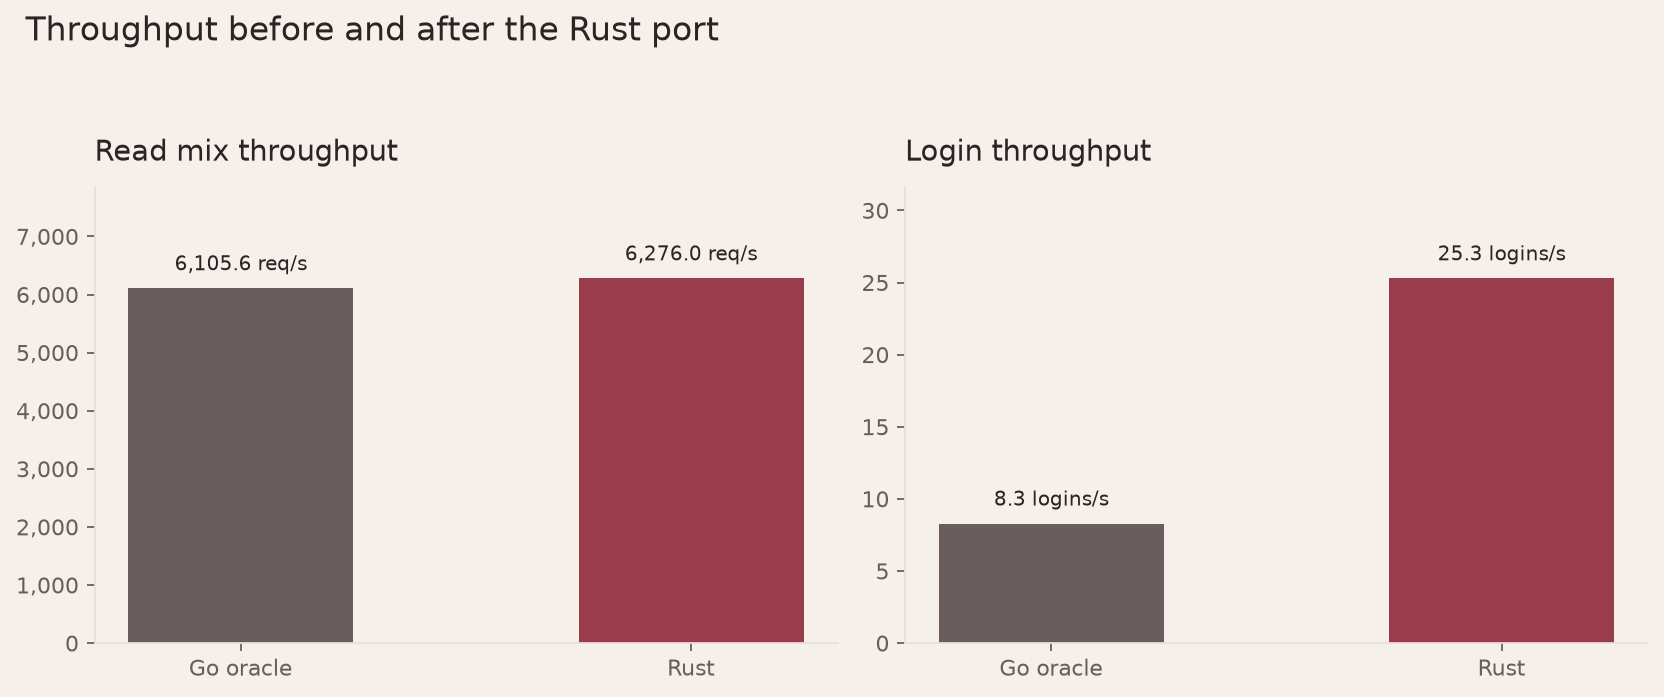
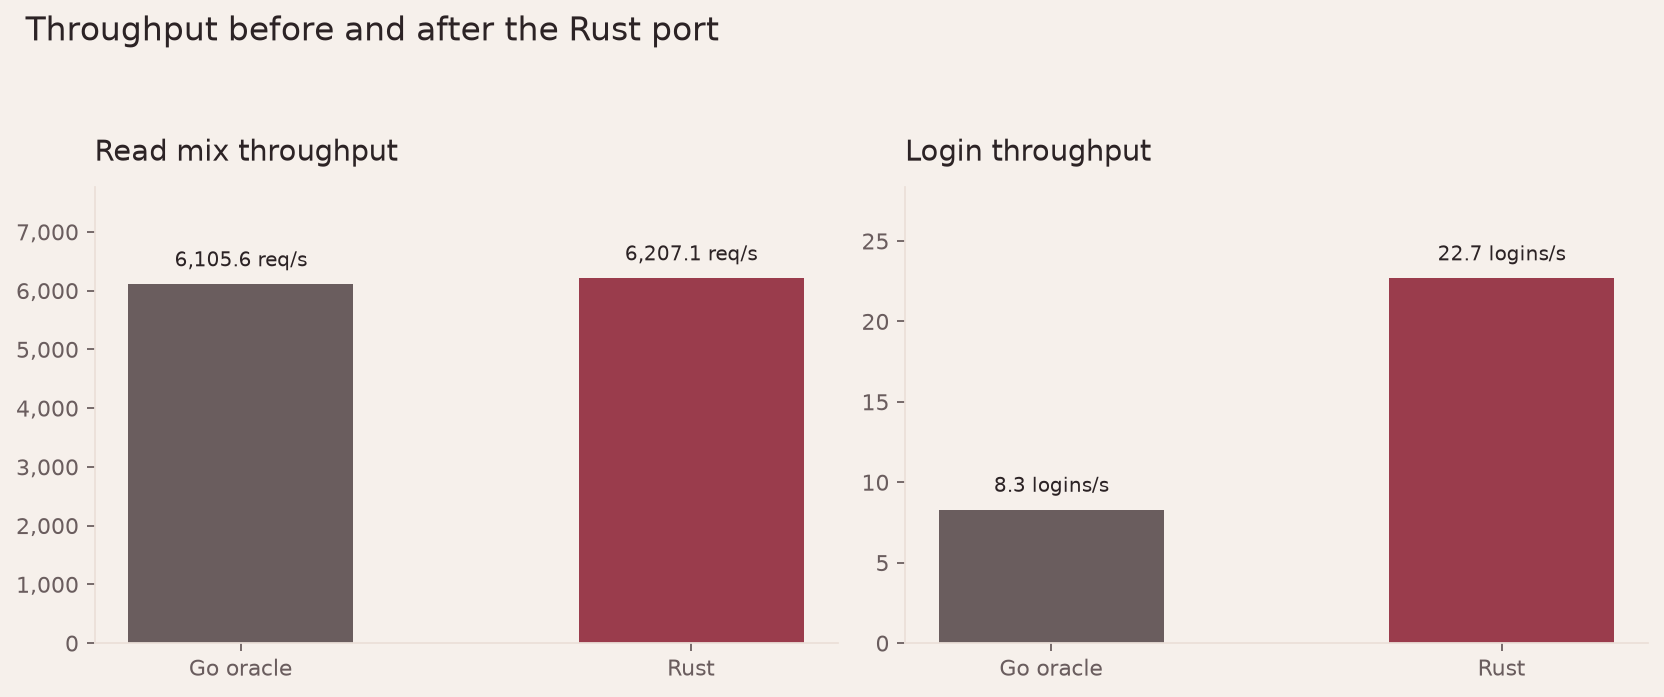
docs: refresh benchmark charts and add request-path diagram
Regenerate the latency, throughput, memory and binary-size charts from
the current bench documents, add the k6 server-CPU chart and the
request-path diagram, and update the README and migration tables.

diff --git a/bench/charts.py b/bench/charts.py
@@ -1,8 +1,9 @@
 #!/usr/bin/env python3
-"""Render the before/after charts from bench/baseline.json and bench/after.json.
+"""Render the benchmark charts from the bench documents.
 
 Usage:
     python3 bench/charts.py [--baseline bench/baseline.json] [--after bench/after.json]
+                            [--k6-cpu bench/k6-cpu.json]
 
 Writes PNGs to docs/charts/. Uses the storefront's shipped palette so the charts
 look like they belong to the project rather than a default plotting theme.
@@ -23,6 +24,7 @@ from matplotlib.ticker import FuncFormatter
 ROOT = Path(__file__).resolve().parents[1]
 INK = "#2c2325"
 MUTED = "#6a5d5e"
+BEFORE = "#8d7f7a"
 GROUND = "#f6f0eb"
 ACCENT = "#9a3c4c"
 PANEL = "#ebe0d9"
@@ -173,6 +175,34 @@ def memory_chart(before: dict, after: dict, out: Path) -> None:
     plt.close(figure)
 
 
+def cpu_chart(k6: dict, out: Path) -> None:
+    """Server CPU per request from the k6 keep-alive runs."""
+    figure, (left, right) = plt.subplots(1, 2, figsize=(10.5, 4.4), dpi=160)
+    panels = (
+        (left, k6["read"], "Public read mix", [BEFORE, MUTED, ACCENT]),
+        (right, k6["churn"], "20,000 rotated addresses", [BEFORE, ACCENT]),
+    )
+    for axis, runs, title, colors in panels:
+        labels = [run["label"] for run in runs]
+        values = [run["cpu_ms_per_request"] * 1000 for run in runs]
+        bars = axis.bar(labels, values, width=0.5, color=colors)
+        bar_labels(axis, bars, values, " µs", 1)
+        axis.set_title(title, loc="left", fontsize=13, color=INK, pad=12)
+        axis.set_ylabel("server CPU, microseconds per request")
+        axis.set_ylim(0, max(values + [1]) * 1.25)
+        axis.tick_params(axis="x", labelsize=9)
+
+    figure.suptitle(
+        "Server CPU per read request, k6 keep-alive probe",
+        x=0.02,
+        ha="left",
+        fontsize=15,
+    )
+    figure.tight_layout(rect=(0, 0, 1, 0.92))
+    figure.savefig(out, bbox_inches="tight")
+    plt.close(figure)
+
+
 def size_chart(before: dict, after: dict, out: Path) -> None:
     before_bytes = before["binary"]["bytes"]
     after_bytes = after["binary"]["bytes"]
@@ -203,11 +233,13 @@ def main() -> int:
     parser = argparse.ArgumentParser()
     parser.add_argument("--baseline", default=str(ROOT / "bench/baseline.json"))
     parser.add_argument("--after", default=str(ROOT / "bench/after.json"))
+    parser.add_argument("--k6-cpu", default=str(ROOT / "bench/k6-cpu.json"))
     parser.add_argument("--out", default=str(ROOT / "docs/charts"))
     args = parser.parse_args()
 
     before = load(Path(args.baseline))
     after = load(Path(args.after))
+    k6 = json.loads(Path(args.k6_cpu).read_text())
     destination = Path(args.out)
     destination.mkdir(parents=True, exist_ok=True)
 
@@ -215,7 +247,8 @@ def main() -> int:
     throughput_chart(before, after, destination / "throughput.png")
     memory_chart(before, after, destination / "memory.png")
     size_chart(before, after, destination / "binary-size.png")
-    print(f"wrote 4 charts to {destination}")
+    cpu_chart(k6, destination / "cpu-per-request.png")
+    print(f"wrote 5 charts to {destination}")
     return 0
 
 

diff --git a/README.md b/README.md
@@ -595,6 +595,11 @@ window is smoke-tested under a headless Weston compositor (clamp runs, close
 saves bounds); physical-display monitor placement, keyring behaviour and the
 headless compositor's shadow offset remain unverified.
 
+The request path after the hot-path work: public reads skip the session layer,
+while session routes keep it inside the global middleware and guards.
+
+![Request path](docs/diagrams/request-path.svg)
+
 ### Before and after
 
 The same harness (`bench/bench.py`) ran against both builds: 16 workers × 2400
@@ -603,13 +608,13 @@ the same seeded local libSQL database.
 
 | Metric | Go oracle | Rust |
 | --- | ---: | ---: |
-| Read throughput | 6,106 req/s | 6,276 req/s |
-| Read p50 / p95 / p99 | 2.49 / 4.07 / 5.01 ms | 2.39 / 4.14 / 5.11 ms |
-| Login p50 / p95 / p99 | 480.0 / 926.1 / 983.2 ms | 158.1 / 161.4 / 162.0 ms |
-| Peak RSS after reads | 100.1 MiB | 20.8 MiB |
-| Peak RSS including logins | 539.0 MiB | 276.6 MiB |
-| Release binary | 14.7 MB | 26.9 MB |
-| Startup to healthy | 0.255 s | 0.355 s |
+| Read throughput | 6,106 req/s | 6,207 req/s |
+| Read p50 / p95 / p99 | 2.49 / 4.07 / 5.01 ms | 2.43 / 4.16 / 5.06 ms |
+| Login p50 / p95 / p99 | 480.0 / 926.1 / 983.2 ms | 159.4 / 265.9 / 313.9 ms |
+| Peak RSS after reads | 100.1 MiB | 17.0 MiB |
+| Peak RSS including logins | 539.0 MiB | 273.2 MiB |
+| Release binary | 14.7 MB | 20.5 MB |
+| Startup to healthy | 0.255 s | 0.052 s |
 
 ![Read, login and tail latency](docs/charts/latency.png)
 
@@ -619,13 +624,18 @@ the same seeded local libSQL database.
 
 ![Binary size](docs/charts/binary-size.png)
 
-The read path and login medians are at parity or slightly ahead, and the Rust
-server uses about a sixth of the resident memory. Both sides use the same
-Argon2id parameters (64 MiB, 3 passes, 4 lanes), so the login tail reflects CPU
-scheduling under four concurrent hashes as much as the implementation. These are
-single runs on a shared development machine, not a capacity claim. The binary is
-larger because the Rust release build keeps its symbols, as the Go build keeps
-DWARF.
+![Server CPU per read request](docs/charts/cpu-per-request.png)
+
+The read path and login medians are at parity or ahead, and the Rust server uses
+about a sixth of the resident memory. The connection-per-request harness above is
+client-bound on reads; the k6 keep-alive probe measures the server directly and
+puts the public read path at 23.6 µs of CPU per request against 33.7 µs before
+the hot-path work, and the 20,000-address churn path at 24.1 µs against 57.1 µs.
+Both sides use the same Argon2id parameters (64 MiB, 3 passes, 4 lanes), so the
+login tail reflects CPU scheduling under four concurrent hashes as much as the
+implementation. These are single runs on a shared development machine, not a
+capacity claim. The binary is larger because the Rust release build keeps its
+symbols, as the Go build keeps DWARF.
 
 ### Run the Rust API through Kiri
 

diff --git a/docs/MIGRATION_REPORT.md b/docs/MIGRATION_REPORT.md
@@ -66,19 +66,25 @@ per side on the development machine. `bench/baseline.json` and
 
 | Metric | Go oracle | Rust |
 | --- | ---: | ---: |
-| Read throughput | 6,106 req/s | 6,276 req/s |
-| Read p50 / p95 / p99 | 2.49 / 4.07 / 5.01 ms | 2.39 / 4.14 / 5.11 ms |
-| Login p50 / p95 / p99 | 480.0 / 926.1 / 983.2 ms | 158.1 / 161.4 / 162.0 ms |
-| Peak RSS after reads | 100.1 MiB | 20.8 MiB |
-| Peak RSS including logins | 539.0 MiB | 276.6 MiB |
-| Release binary | 14.7 MB | 26.9 MB |
-| Startup to healthy | 0.255 s | 0.355 s |
+| Read throughput | 6,106 req/s | 6,207 req/s |
+| Read p50 / p95 / p99 | 2.49 / 4.07 / 5.01 ms | 2.43 / 4.16 / 5.06 ms |
+| Login p50 / p95 / p99 | 480.0 / 926.1 / 983.2 ms | 159.4 / 265.9 / 313.9 ms |
+| Peak RSS after reads | 100.1 MiB | 17.0 MiB |
+| Peak RSS including logins | 539.0 MiB | 273.2 MiB |
+| Release binary | 14.7 MB | 20.5 MB |
+| Startup to healthy | 0.255 s | 0.052 s |
 
 The read path includes the in-process read cache on both sides. Login uses the
 same Argon2id parameters (64 MiB, 3 passes, 4 lanes); the Go tail is dominated by
 CPU contention from four concurrent hashes. These are single runs, not a
 capacity claim. Runtime memory is about a sixth of Go; the binary is larger
 because the Rust release build keeps symbols while the Go build keeps DWARF.
+
+The keep-alive k6 probe (`bench/k6-read.js`) measures server CPU directly and is
+plotted in `docs/charts/cpu-per-request.png`: public reads cost 23.6 µs of server
+CPU per request against 33.7 µs before the hot-path work, and the
+20,000-address churn path costs 24.1 µs against 57.1 µs. The request-path
+diagram is `docs/diagrams/request-path.svg`.
 
 ## Auth
 

diff --git a/bench/README.md b/bench/README.md
@@ -48,6 +48,8 @@ uses a release `cargo build`; both sizes are reported as produced.
 - Go micro-benchmarks are in `bench/baseline-micro.txt` (`go test -bench`).
 
 Charts generated from these documents live in `docs/charts/`.
+`bench/k6-cpu.json` holds the server CPU values measured around the k6 runs;
+`python3 bench/charts.py` renders them as `cpu-per-request.png`.
 
 ## k6
 
